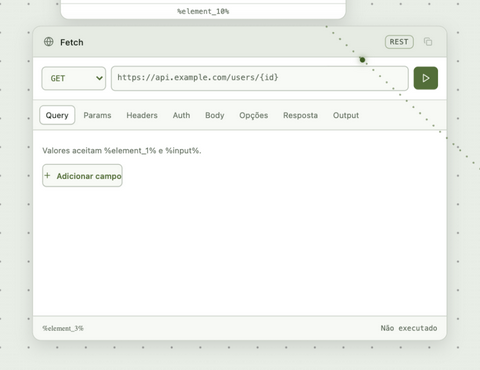
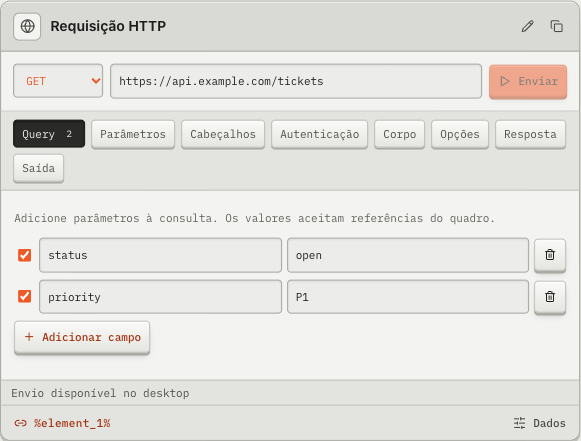
Atualize imagens e exemplos do README

diff --git a/README.md b/README.md
@@ -2,7 +2,7 @@
 
 Protótipo desktop de canvas infinito com tldraw, React e Tauri: notas, terminais, componentes, requisições HTTP, páginas da web e diagramas no mesmo board — conectados por referências de dados.
 
-![Board do Metalboard com documento, terminal, componente React e diagrama Mermaid conectados por setas de dependência](docs/images/hero-board.png)
+![Board de diagnóstico de checkout com dados de eventos, funil interativo, hipótese e próximo teste conectados por setas](docs/images/hero-board.png)
 
 Requer Node 22+, Rust e ferramentas de desenvolvimento macOS.
 
@@ -31,19 +31,20 @@ A barra de ferramentas do tldraw inclui o grupo **Ferramentas Metalboard**: Docu
 
 ## Fluxo de dados entre elementos
 
-Qualquer elemento pode consumir o output de outro com uma referência `%id%` — digitada no conteúdo, na entrada do bloco ou montada no inspetor **Propriedades** (canto superior direito). O board desenha setas pontilhadas animadas mostrando cada dependência, e o resolvedor detecta referências circulares (limite de 40 encadeamentos).
+Qualquer elemento pode consumir o output de outro com uma referência `%id%`. Digite a referência no conteúdo ou configure a entrada no inspetor, acessível por **Propriedades** na barra de ferramentas ou por **Dados** no bloco. O board desenha setas pontilhadas animadas mostrando cada dependência, e o resolvedor detecta referências circulares (limite de 40 encadeamentos).
 
 No inspetor cada elemento expõe identidade (`%id%`), entrada e transformação de output: interpretar como JSON, selecionar um caminho (`users[0].name`), mapear cada item de um array e aplicar um template final. O resultado é entregue como `string`, número, objeto ou array para o elemento consumidor.
 
-![Inspetor de propriedades do componente consumindo o documento Ideia](docs/images/inspector.png)
+![Inspetor de propriedades da Fila de suporte com a referência %tickets% e os dados de entrada dos chamados](docs/images/inspector.png)
 
 ```mermaid
 flowchart LR
-    ideia["Documento · Ideia"] -->|"ref element_9"| componente["Componente React"]
-    terminal["Terminal"] -->|"ref element_10"| fluxo["Diagrama Mermaid"]
+    tickets["Saída · Chamados recebidos"] -->|"%tickets%"| queue["Componente React · Fila de suporte"]
+    queue -->|"%queue.next.ticket%"| action["Documento · Prioridade do plantão"]
+    action -->|"%action%"| handoff["Documento · Passagem de turno"]
 ```
 
-Um documento com `%element_10%` mostra o conteúdo resolvido quando fora de foco e a fonte crua durante a edição; um Fetch pode montar a URL com `%input%` e o body JSON aceita `%id%` preservando o tipo do valor substituído.
+O documento **Prioridade do plantão** mostra o chamado resolvido quando está fora de foco e exibe a referência `%queue.next.ticket%` durante a edição. Um Fetch pode montar a URL com `%input%` e o body JSON aceita `%id%` preservando o tipo do valor substituído.
 
 ## Terminal com sessão persistente
 
@@ -66,13 +67,13 @@ No navegador o bloco indica “Desktop necessário”: a execução local exige 
 
 ## API e páginas da web
 
-![Bloco Fetch com método, URL e abas de configuração](docs/images/fetch-block.png)
+![Bloco de requisição HTTP com método GET, URL e parâmetros na aba Query](docs/images/fetch-block.png)
 
 O **Fetch** cobre GET, POST, PUT, PATCH, DELETE, HEAD e OPTIONS com pares de query/params/headers (valores aceitam referências), autenticação Bearer, Basic ou API Key, body JSON, texto ou form e timeout configurável. A requisição usa o transporte nativo do desktop — sem restrição de CORS. O corpo da resposta tem limite de 2 MB e redirecionamentos automáticos ficam desativados. Credenciais de autenticação ficam apenas na sessão: nunca são salvas no board nem exportadas.
 
-O **Embed** incorpora a página em um iframe (`sandbox`, sem cookies) e, na aba Output, extrai o HTML como Markdown da página ou relatório JSON (metadados, headings, links e texto visível). Sites com `X-Frame-Options` podem bloquear a incorporação — a extração funciona mesmo assim.
+O **Embed** incorpora a página em um iframe (`sandbox`, sem cookies) e, na aba **Extração de dados**, extrai o HTML como Markdown da página ou relatório JSON (metadados, headings, links e texto visível). Sites com `X-Frame-Options` podem bloquear a incorporação — a extração funciona mesmo assim.
 
-![Bloco Embed com URL e abas Página e Output](docs/images/embed-block.png)
+![Bloco de página web com um guia de suporte demonstrativo e as abas Página e Extração de dados](docs/images/embed-block.png)
 
 Ambos executam rede apenas no app desktop, pela mesma política SSRF do backend nativo: apenas HTTP/HTTPS, com resolução de DNS e endereços privados, loopback e reservados rejeitados no destino final. No navegador o iframe do Embed continua funcionando, mas os botões de envio e extração ficam desativados.
 
